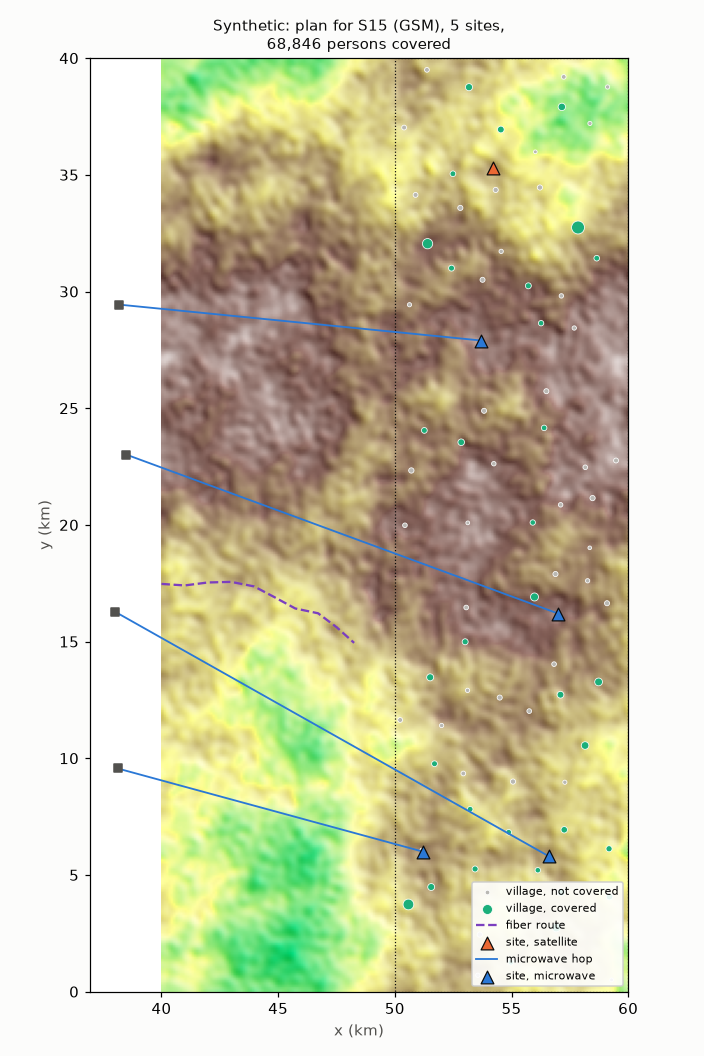
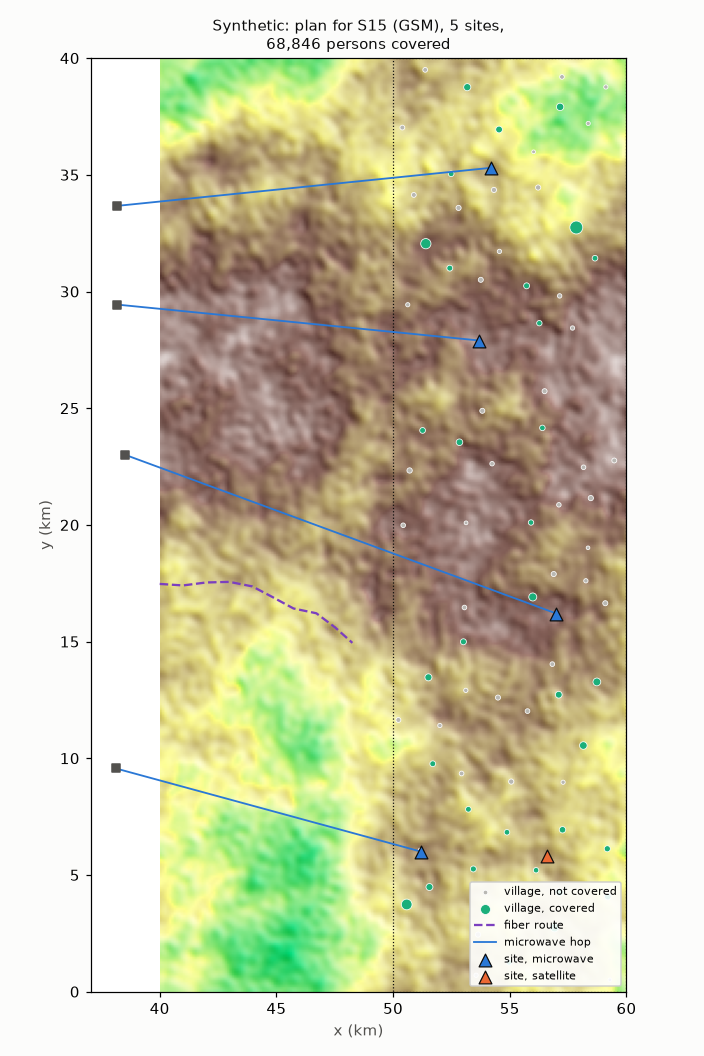
fix: measure the solvers on one thread and pick scip

diff --git a/src/ran_lakehouse/planning/scenario_report.py b/src/ran_lakehouse/planning/scenario_report.py
@@ -64,7 +64,8 @@ def compare(data: solver.PlanningData, cards: list[Scenario]) -> dict[str, Any]:
     Returns:
         Per back end: total and largest median seconds, cards proven
         (optimal or infeasible) and cards stopped at the time limit; and
-        whether all back ends agree on every card's status and objective.
+        whether the back ends that prove every card agree on each card's
+        status and objective.
     """
     out: dict[str, Any] = {}
     answers: dict[str, list[tuple[str, Any]]] = {}
@@ -84,12 +85,13 @@ def compare(data: solver.PlanningData, cards: list[Scenario]) -> dict[str, Any]:
             "proven": proven,
             "time_limit": limited,
         }
-    first = next(iter(answers.values()))
+    complete = [answers[b] for b, v in out.items() if v["proven"] == len(cards)]
     return {
         "backends": out,
-        "agree": all(a == first for a in answers.values()),
+        "agree": bool(complete) and all(a == complete[0] for a in complete),
         "repeats": REPEATS,
         "time_limit_s": solver.TIME_LIMIT_S,
+        "threads": solver.THREADS,
     }
 
 
@@ -318,7 +320,10 @@ def render_markdown(record: dict[str, Any]) -> str:
         "near 1e10 made SCIP stop 40 persons short on S16); CP-SAT solves in integers. Every",
         "plan returned is checked against the unscaled integer rows.",
         f"Median of {comparison['repeats']} runs per card; time limit "
-        f"{comparison['time_limit_s']:g} s per solve.",
+        f"{comparison['time_limit_s']:g} s per solve; {comparison['threads']} thread for CP-SAT",
+        "and SCIP (HiGHS takes no thread count through MathOpt), so the pick holds on any",
+        "machine: CP-SAT proved every card with 16 workers on the build machine but not",
+        "with 4 on the CI runner.",
         "",
         "| Back end | Total s | Largest card s | Proven (optimal or infeasible) | Time limit |",
         "|---|---|---|---|---|",
@@ -328,7 +333,7 @@ def render_markdown(record: dict[str, Any]) -> str:
             for b, v in comparison["backends"].items()
         ],
         "",
-        f"All back ends agree on every card's status and objective: "
+        f"The back ends that prove every card agree on each card's status and objective: "
         f"{'yes' if comparison['agree'] else 'NO'}. Chosen: **{record['backend']}** (every "
         "card proven, least total time); it serves both the stored optima and the plan solve.",
         "",

diff --git a/src/ran_lakehouse/planning/solver.py b/src/ran_lakehouse/planning/solver.py
@@ -43,8 +43,12 @@ from ortools.math_opt.python import mathopt
 
 REPO_ROOT = Path(__file__).resolve().parents[3]
 SCHEMA_PATH = REPO_ROOT / "contract" / "plan_constraints.schema.json"
-BACKEND = "cpsat"  # chosen by measurement, see results/planning_scenarios.md
+BACKEND = "scip"  # chosen by measurement, see results/planning_scenarios.md
 TIME_LIMIT_S = 60.0  # per solve (ASSUMPTION)
+# One thread for the solvers that take a count (CP-SAT, SCIP), so the measured
+# pick holds on any machine: CP-SAT with 16 workers proved every card, with
+# 4 it ran out of time. HiGHS takes no thread count through MathOpt.
+THREADS = 1
 CLOCK_STEP_ERROR = "solve_time must be non-negative"
 CLOCK_STEP_ATTEMPTS = 3
 clock_step_reruns = {"count": 0}
@@ -220,6 +224,7 @@ def solve_mathopt(model: Model, solver_type: Any) -> Solution:
         time_limit=timedelta(seconds=TIME_LIMIT_S),
         relative_gap_tolerance=0.0,
         absolute_gap_tolerance=0.0,
+        threads=None if solver_type == mathopt.SolverType.HIGHS else THREADS,
     )
     result = solve_through_clock_steps(m, solver_type, parameters)
     seconds = time.perf_counter() - started
@@ -231,9 +236,13 @@ def solve_mathopt(model: Model, solver_type: Any) -> Solution:
     if reason == mathopt.TerminationReason.INFEASIBLE:
         return Solution("infeasible", math.nan, np.zeros(0), seconds)
     limit = result.termination.limit
+    # MathOpt's CP-SAT reports its time limit as UNDETERMINED.
+    timed_out = limit == mathopt.Limit.TIME or (
+        limit == mathopt.Limit.UNDETERMINED and seconds >= TIME_LIMIT_S
+    )
     if (
         reason in (mathopt.TerminationReason.FEASIBLE, mathopt.TerminationReason.NO_SOLUTION_FOUND)
-        and limit == mathopt.Limit.TIME
+        and timed_out
     ):
         return Solution("time_limit", math.nan, np.zeros(0), seconds)
     raise RuntimeError(

diff --git a/tests/test_solver.py b/tests/test_solver.py
@@ -207,7 +207,7 @@ def test_each_card_behaves_as_its_difficulty_says(
 ) -> None:
     data, cards = demo
     for card in cards:
-        results = {b: solve_plan(data, card.constraints, b) for b in ("highs", "cpsat")}
+        results = {b: solve_plan(data, card.constraints, b) for b in ("highs", "scip")}
         statuses = {r["status"] for r in results.values()}
         assert statuses == {"infeasible" if card.difficulty == "infeasible" else "optimal"}, (
             card.scenario_id,

diff --git a/results/planning_scenarios.md b/results/planning_scenarios.md
@@ -14,15 +14,18 @@ the cheapest plan at that optimum, then each constraint relaxed in turn to price
 HiGHS and SCIP get each row divided by its largest coefficient (unscaled IDR rows
 near 1e10 made SCIP stop 40 persons short on S16); CP-SAT solves in integers. Every
 plan returned is checked against the unscaled integer rows.
-Median of 3 runs per card; time limit 60 s per solve.
+Median of 3 runs per card; time limit 60 s per solve; 1 thread for CP-SAT
+and SCIP (HiGHS takes no thread count through MathOpt), so the pick holds on any
+machine: CP-SAT proved every card with 16 workers on the build machine but not
+with 4 on the CI runner.
 
 | Back end | Total s | Largest card s | Proven (optimal or infeasible) | Time limit |
 |---|---|---|---|---|
-| highs | 3.717 | 1.787 | 20 of 20 | 0 |
-| cpsat | 3.111 | 0.808 | 20 of 20 | 0 |
-| scip | 3.458 | 1.542 | 20 of 20 | 0 |
+| highs | 3.651 | 1.766 | 20 of 20 | 0 |
+| cpsat | 253.371 | 65.049 | 18 of 20 | 2 |
+| scip | 3.411 | 1.529 | 20 of 20 | 0 |
 
-All back ends agree on every card's status and objective: yes. Chosen: **cpsat** (every card proven, least total time); it serves both the stored optima and the plan solve.
+The back ends that prove every card agree on each card's status and objective: yes. Chosen: **scip** (every card proven, least total time); it serves both the stored optima and the plan solve.
 
 ## Scenarios
 
@@ -104,8 +107,8 @@ Plan: 5 sites, 33 villages and 68,846 persons covered, capital cost 14,476,089,5
 
 | Site | Backhaul | Hub | Power |
 |---|---|---|---|
-| C01 | satellite |  | solar |
-| C07 | microwave | SITE0277 | solar |
+| C01 | microwave | SITE0279 | solar |
+| C07 | satellite |  | solar |
 | C09 | microwave | SITE0278 | solar |
 | C18 | microwave | SITE0280 | solar |
 | C31 | microwave | SITE0281 | solar |
@@ -123,5 +126,5 @@ with whole sites it can bind while the plan leaves some of it unused:
 
 ## Cost
 
-Report run 66.5 s, peak RSS 772 MB (network model, planning data, every card solved by every back end). Solves rerun after a
-wall-clock step of the build machine: 1.
+Report run 819.9 s, peak RSS 772 MB (network model, planning data, every card solved by every back end). Solves rerun after a
+wall-clock step of the build machine: 5.
